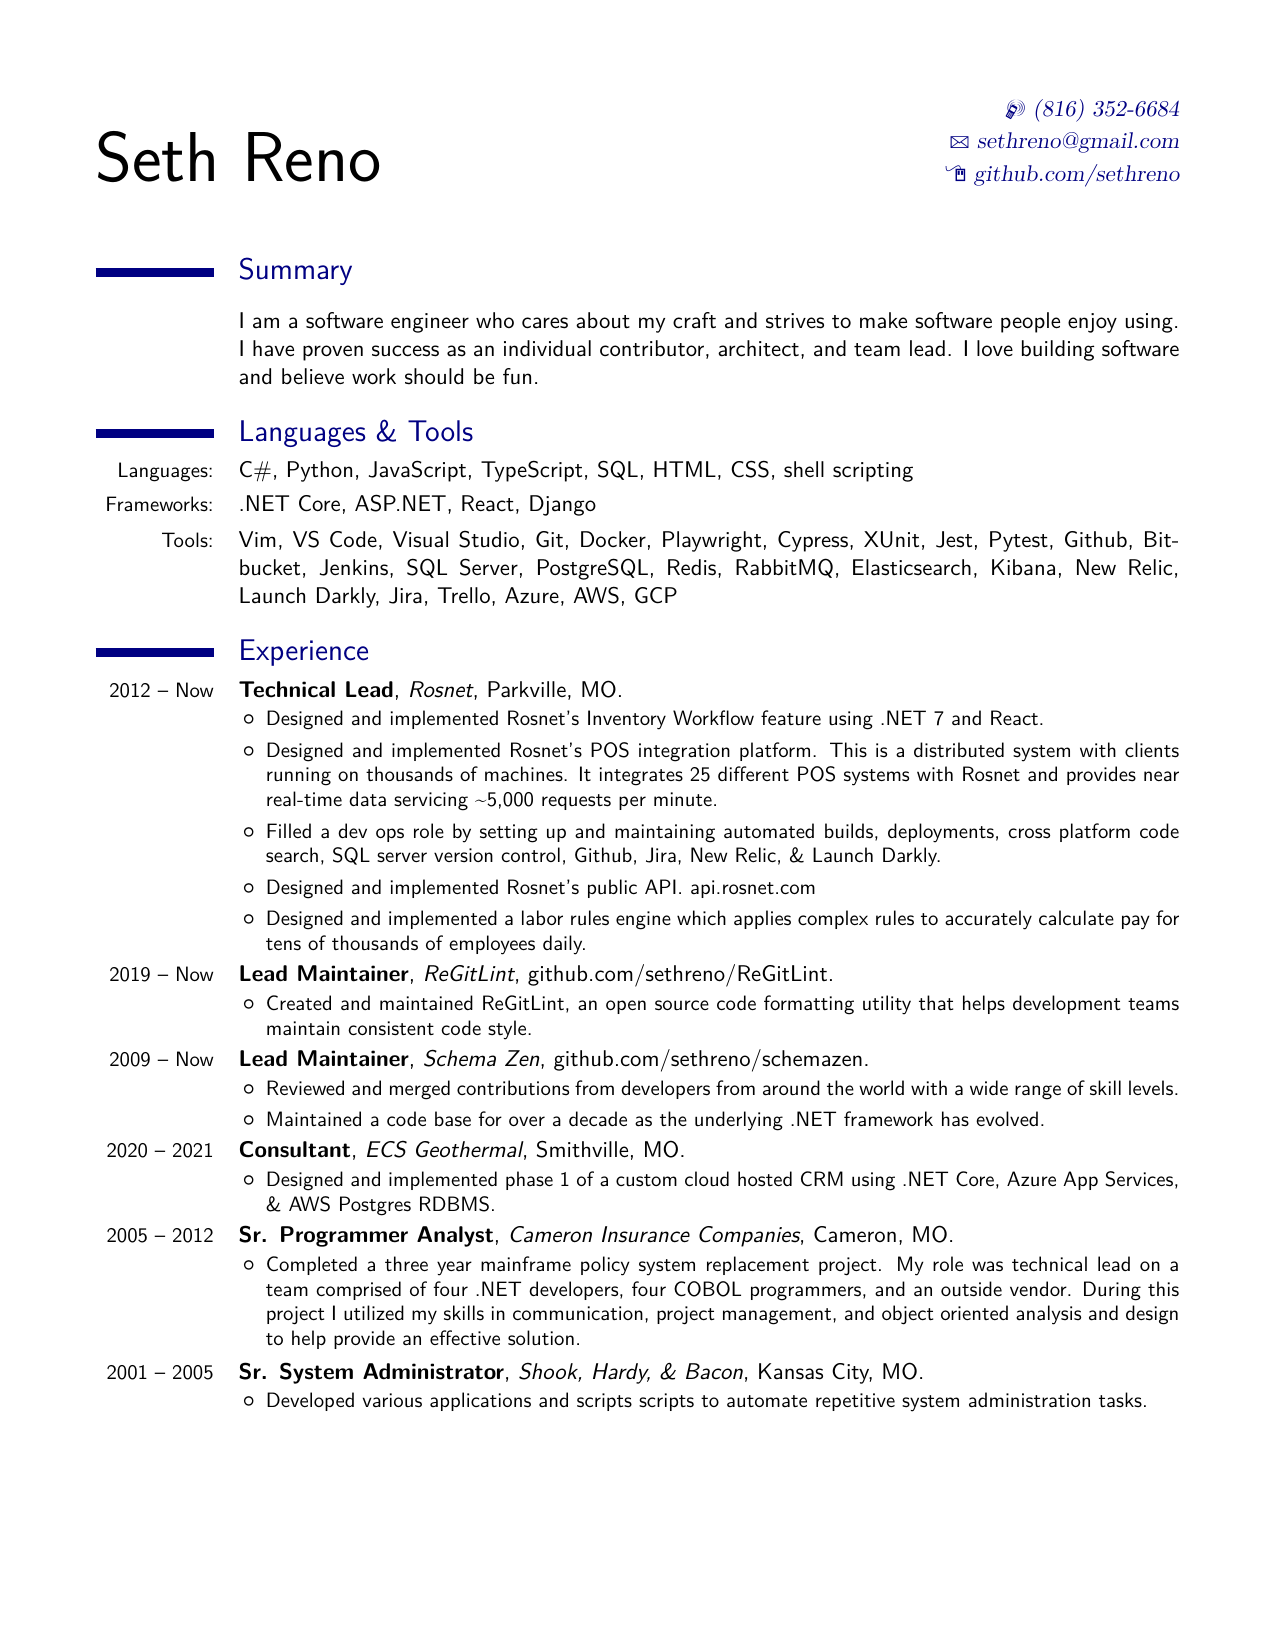
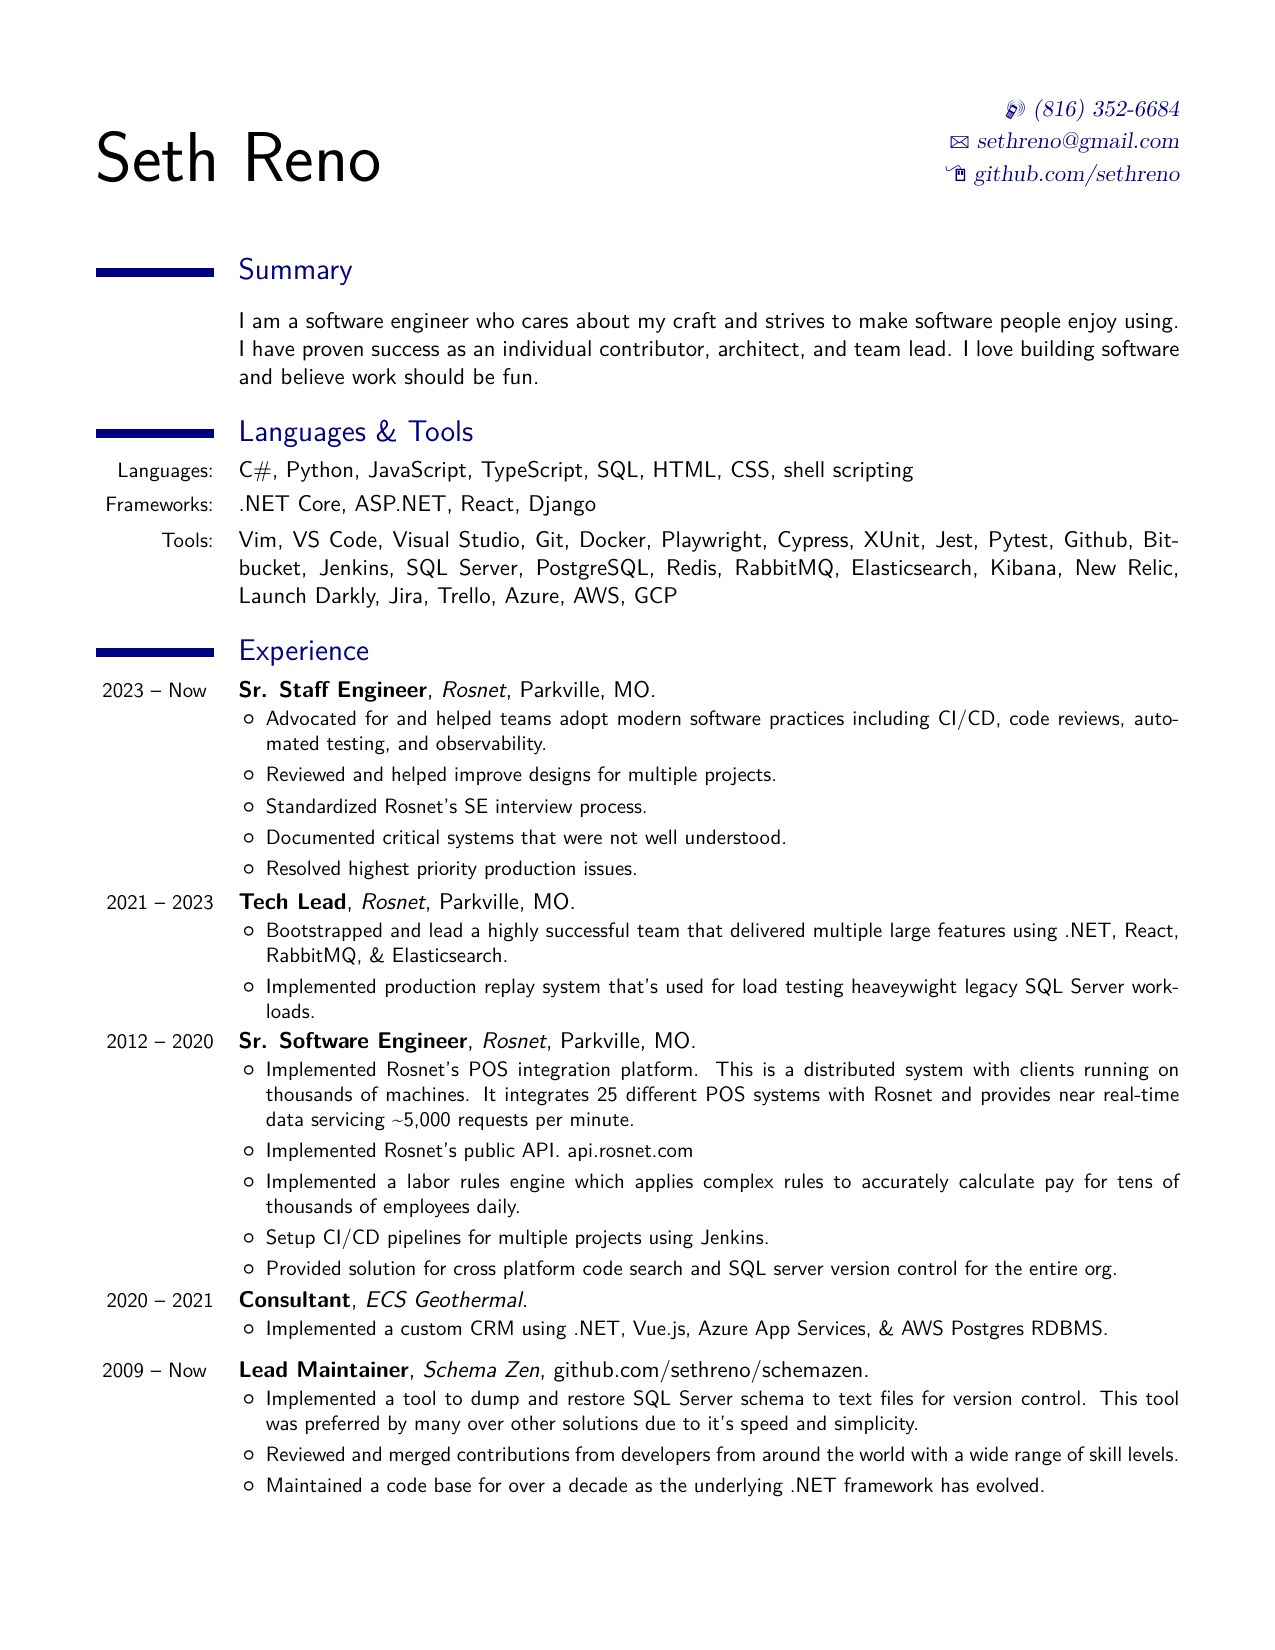
Update experience section
Breaking out multiple titles at Rosnet & CIC to show that I was promoted
multiple times.

diff --git a/src/resume.tex b/src/resume.tex
@@ -73,44 +73,74 @@ Azure, AWS, GCP
 
 \section{Experience} 
 	\cventry
-{2012 -- Now} {Technical Lead}{Rosnet}{Parkville, MO}{}{
+{2023 -- Now } {Sr. Staff Engineer}{Rosnet}{Parkville, MO}{}{
 		\begin{itemize}
 			\item
-				Designed and implemented Rosnet's Inventory Workflow
-				feature using .NET 7 and React.
+				Advocated for and helped teams adopt modern software practices
+				including CI/CD, code reviews, automated testing, and
+				observability.
 			\item
-				Designed and implemented Rosnet's POS integration
-				platform. This is a distributed system with clients
-				running on thousands of machines. It integrates 25
-				different POS systems with Rosnet and provides near
-				real-time data servicing \char`\~5,000 requests per
-				minute.
+				Reviewed and helped improve designs for multiple projects.
 			\item
-				Filled a dev ops role by setting up and maintaining
-				automated builds, deployments, cross platform code
-				search, SQL server version control, Github, Jira,
-				New Relic, \& Launch Darkly.
+				Standardized Rosnet's SE interview process.
 			\item
-				Designed and implemented Rosnet's public API.
-				\httplink{api.rosnet.com}
+				Documented critical systems that were not well understood.
 			\item
-				Designed and implemented a labor rules engine which
-				applies complex rules to accurately calculate pay for
-				tens of thousands of employees daily.
+				Resolved highest priority production issues.
+		\end{itemize}
+}
+
+	\cventry
+{2021 -- 2023} {Tech Lead}{Rosnet}{Parkville, MO}{}{
+		\begin{itemize}
+			\item
+				Bootstrapped and lead a highly successful team that delivered
+				multiple large features using .NET, React, RabbitMQ, \&
+				Elasticsearch.
+			\item
+				Implemented production replay system that's used for load
+				testing heaveywight legacy SQL Server workloads.
+		\end{itemize}
+}
+
+	\cventry
+{2012 -- 2020} {Sr. Software Engineer}{Rosnet}{Parkville, MO}{}{
+		\begin{itemize}
+			\item
+				Implemented Rosnet's POS integration platform. This is a
+				distributed system with clients running on thousands of
+				machines. It integrates 25 different POS systems with Rosnet and
+				provides near real-time data servicing \char`\~5,000 requests
+				per minute.
+			\item
+				Implemented Rosnet's public API. \httplink{api.rosnet.com}
+			\item
+				Implemented a labor rules engine which applies complex rules to
+				accurately calculate pay for tens of thousands of employees
+				daily.
+			\item
+				Setup CI/CD pipelines for multiple projects using Jenkins.
+			\item
+				Provided solution for cross platform code search and SQL server
+				version control for the entire org.
 		\end{itemize}
 }
 	\cventry
-{2019 -- Now} {Lead Maintainer}{ReGitLint}{github.com/sethreno/ReGitLint}{}{
+{2020 -- 2021} {Consultant}{ECS Geothermal}{}{}{
 		\begin{itemize}
 			\item 
-				Created and maintained ReGitLint, an open source code formatting
-				utility that helps development teams maintain consistent code
-				style.
+				Implemented a custom CRM using .NET, Vue.js, Azure App Services,
+				\& AWS Postgres RDBMS.
 		\end{itemize}
 }
+
 	\cventry
-{2009 -- Now} {Lead Maintainer}{Schema Zen}{github.com/sethreno/schemazen}{}{
+{2009 -- Now } {Lead Maintainer}{Schema Zen}{github.com/sethreno/schemazen}{}{
 		\begin{itemize}
+			\item 
+				Implemented a tool to dump and restore SQL Server schema to text
+				files for version control. This tool was preferred by many over
+				other solutions due to it's speed and simplicity.
 			\item 
 				Reviewed and merged contributions from developers from around the world
 				with a wide range of skill levels.
@@ -120,18 +150,10 @@ Azure, AWS, GCP
 		\end{itemize}
 }
 	\cventry
-{2020 -- 2021} {Consultant}{ECS Geothermal}{Smithville, MO}{}{
+{2006 -- 2012} {Sr. Programmer Analyst}{Cameron Insurance Companies}{Cameron, MO}{}{
 		\begin{itemize}
 			\item 
-				Designed and implemented phase 1 of a custom cloud hosted CRM
-				using .NET Core, Azure App Services, \& AWS Postgres RDBMS.
-		\end{itemize}
-}
-	\cventry
-{2005 -- 2012} {Sr. Programmer Analyst}{Cameron Insurance Companies}{Cameron, MO}{}{
-		\begin{itemize}
-			\item 
-				Completed a three year mainframe policy system
+				Completed a multi-year mainframe policy system
 				replacement project. My role was technical lead on a
 				team comprised of four .NET developers, four COBOL
 				programmers, and an outside vendor. During this project
@@ -140,7 +162,24 @@ Azure, AWS, GCP
 				help provide an effective solution.
 		\end{itemize}
 }
-
+	\cventry
+{2005 -- 2006} {Programmer Analyst}{Cameron Insurance Companies}{Cameron, MO}{}{
+		\begin{itemize}
+			\item
+				Implemented policy declarations printing system using .NET framework.
+				Completed this project in a fraction of the time expected by
+				parsing legacy COBOL programs which contained the x and y
+				coordinates of each form field.
+			\item
+				Advocated for and helped team move from Visual Source Safe to
+				SVN for version control.
+			\item
+				Advocated for and helped team adopt automated unit \& integration
+				testing.
+			\item
+				Implemented database version constrol for SQL Server.
+		\end{itemize}
+}
 	\cventry
 {2001 -- 2005}{Sr. System Administrator}{Shook, Hardy, \& Bacon}{Kansas City, MO}{}{
 		\begin{itemize}
@@ -148,7 +187,7 @@ Azure, AWS, GCP
 				Developed various applications and scripts scripts to
 				automate repetitive system administration tasks.
 		\end{itemize}
-	}
+}
 
 \section{Education} 
 	\cventry
